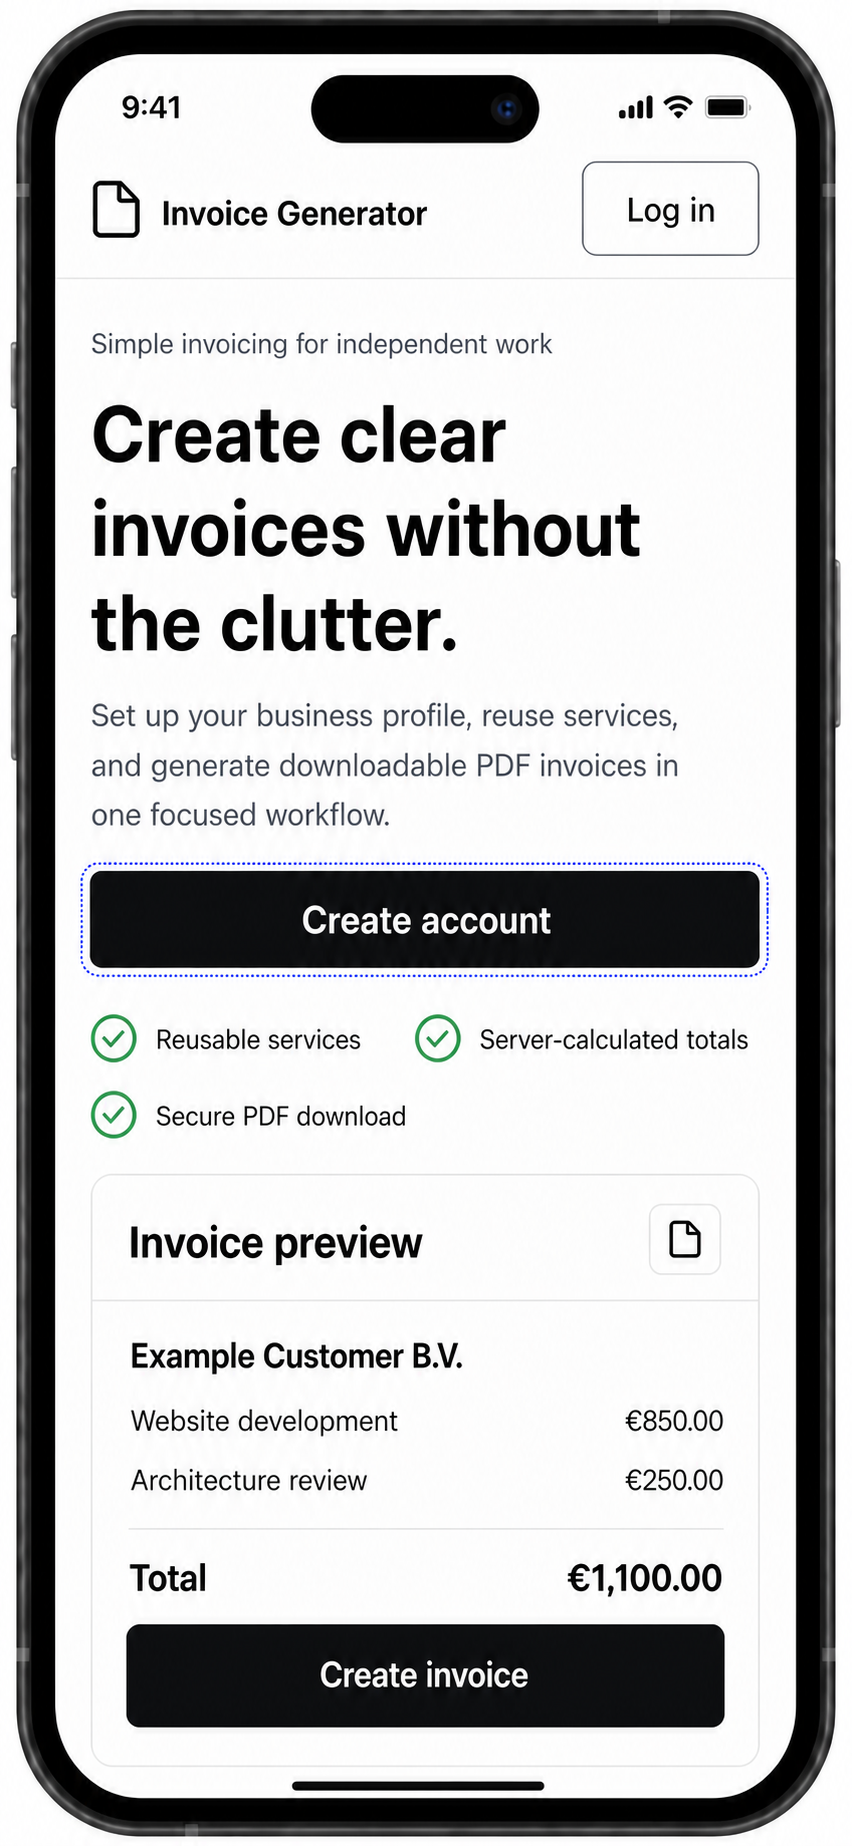
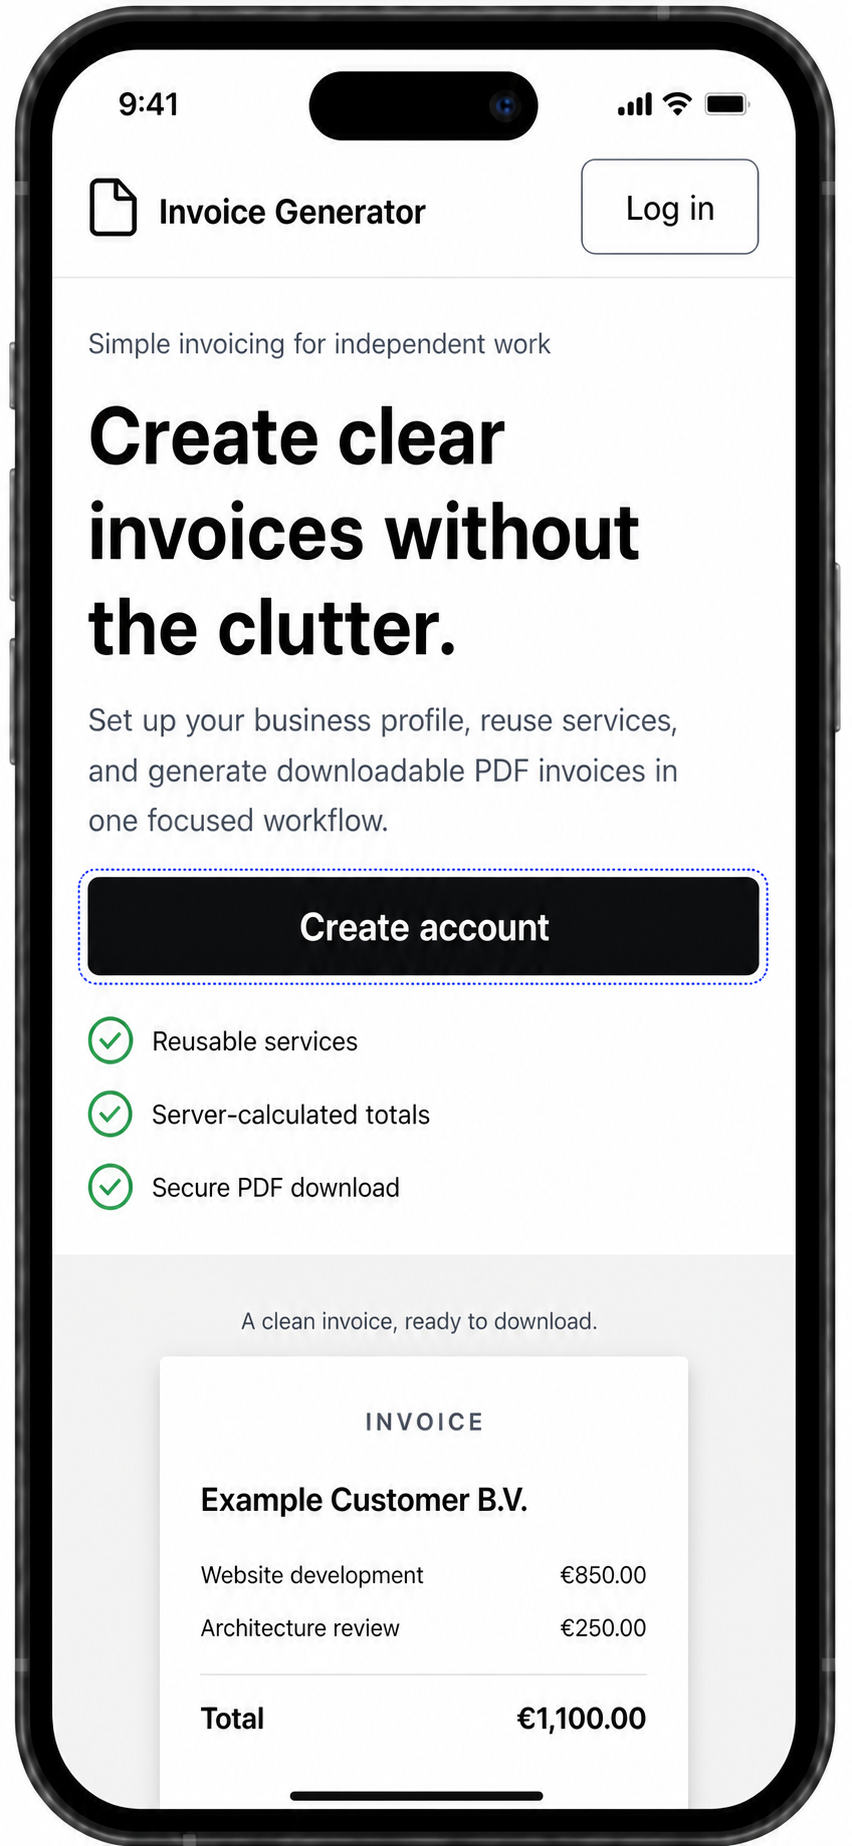
design: simplify mobile hero hierarchy

diff --git a/docs/design/IMAGEGEN_PROMPTS.md b/docs/design/IMAGEGEN_PROMPTS.md
@@ -79,6 +79,20 @@ Constraints: preserve the header Log in, focused Create account action, all exac
 Avoid: a second hero Log in action, VAT, tax, discounts, customer-management module, status/payment UI, recurring invoices, email delivery, Dutch, storage URLs or keys, gradients, bright branding, bottom tabs.
 ```
 
+## Public landing hero mobile — result-section edit
+
+```text
+Use case: precise-object-edit
+Asset type: mobile public landing-page hero reference mockup
+Input images: Image 1 is the accessible mobile hero edit target.
+Primary request: preserve the complete header, eyebrow, headline, paragraph, focused Create account action, and three reassurance labels. Replace everything below the reassurance labels so the hero and product evidence no longer look like two repeated CTA cards.
+Composition: remove the bordered Invoice preview application card, document-icon tile, and its Create invoice button. There must be only one dark CTA on the page. Introduce a full-width very-light-neutral-gray result section with generous top padding and caption "A clean invoice, ready to download." Center a narrower white paper document, about 78-82% of the content width, with near-square corners and subtle paper shadow.
+Document content: uppercase "INVOICE", "Example Customer B.V.", rows "Website development" / "€850.00" and "Architecture review" / "€250.00", a thin rule, and bold "Total" / "€1,100.00". Use document-like margins and tabular alignment. No button, card header, icon tile, form control, or action inside the preview.
+Visual hierarchy: the white hero ends after the benefit checks; the gray full-width section creates a clear sectional change. The narrower document is secondary product evidence, not a second conversion block.
+Constraints: preserve phone dimensions, header Log in, hero sizing, Create account focus ring, benefit labels, neutral shadcn/Inter direction, English copy, exact values, and safe area. Every visible row is complete and readable; no overlap, horizontal overflow, malformed text, or watermark.
+Avoid: a second CTA, any preview button, the phrase Invoice preview, a large rounded application card, VAT, tax, discounts, customer-management module, status/payment UI, recurring invoices, email delivery, Dutch, storage URLs or keys, gradients, bright branding, bottom tabs.
+```
+
 ## Profile and services prerequisites — desktop
 
 ```text

diff --git a/docs/design/README.md b/docs/design/README.md
@@ -82,7 +82,7 @@ The implementation may keep them as separate routes while reusing the same compl
 | Asset | Intent | Visual QA |
 | --- | --- | --- |
 | `landing-hero-desktop.png` | Public desktop landing hero | Account/login actions, focused MVP promise, readable create-invoice preview, and restrained value summary use the existing neutral visual system. |
-| `landing-hero-mobile.png` | Public mobile landing hero | Header login plus one focused account CTA avoids duplication; 48-52px primary actions, wrapping benefit labels, and a readable invoice preview avoid desktop-scale compression. |
+| `landing-hero-mobile.png` | Public mobile landing hero | One focused account CTA owns conversion; a full-width gray result section and narrower invoice document provide product evidence without repeating the CTA/card pattern. |
 | `profile-services-prerequisites-desktop.png` | Profile plus reusable-service prerequisites | Every required seller value is populated consistently with the completed check; service rows are read-only and expose no overflow/edit/delete action. |
 | `invoice-create-desktop.png` | Complete desktop create form with two editable lines | Two-line layout, dates, EUR preview, server-authority helper, and actions are clear. |
 | `invoice-list-states-desktop.png` | Populated and empty list states | Both states share one navigation hierarchy; row focus and named download actions are visible; no status column exists. |
@@ -97,7 +97,8 @@ The invoice-list asset intentionally presents two design states on one reference
 
 All seven PNGs were generated with the built-in ImageGen tool. The landing hero has separate desktop
 and mobile compositions rather than one scaled layout. Targeted edits removed a redundant mobile
-login action and brought primary actions and preview labels to the documented accessible scale. Other targeted edits replaced a
+login action, brought interactive elements to an accessible scale, and separated the mobile product
+evidence into a quiet gray result section without a second CTA. Other targeted edits replaced a
 brand-like PDF symbol, corrected completed profile/service state, and replaced the rejected
 full-page mobile capture with a standard-height, task-focused viewport using accessible sizing.
 No CLI/API fallback or production UI code was used. The exact committed-asset prompt set is in
